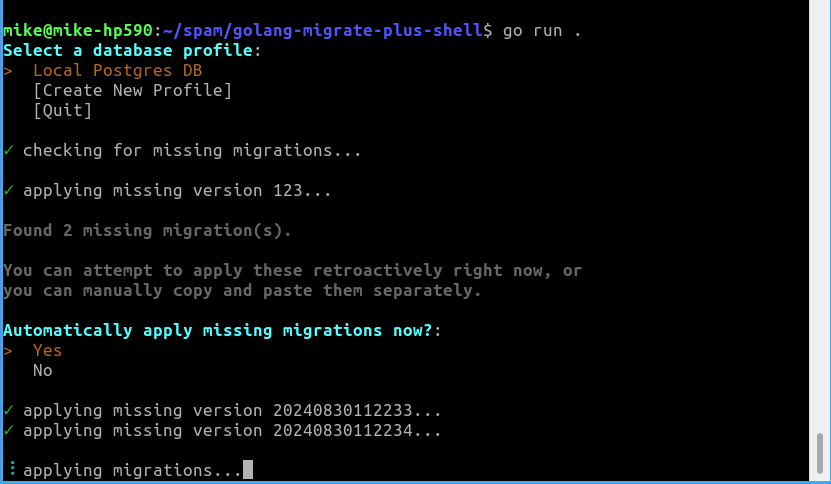
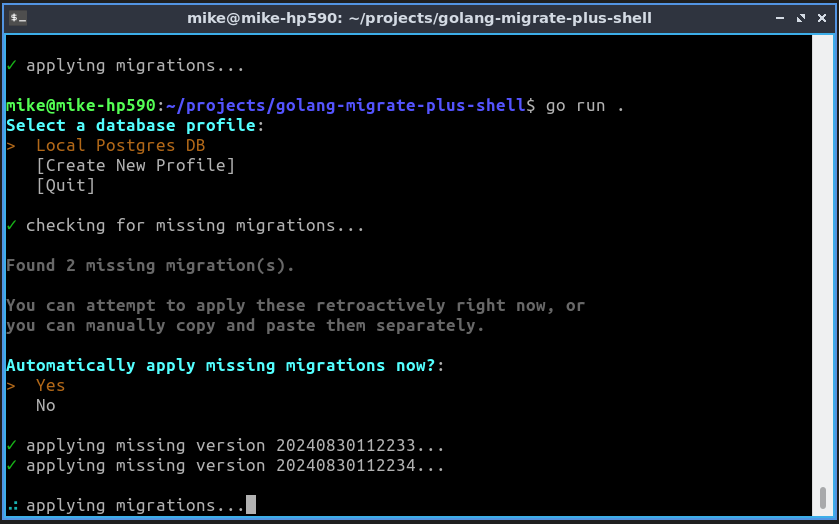
cleanup

Changed region(s): [[0.0, 0.0, 1.0, 1.0]]

diff --git a/main.go b/main.go
@@ -243,7 +243,12 @@ func listProfiles(t *term.Terminal, chInterrupt chan<- os.Signal) (*Profile, err
 				panic(err)
 			}
 		}
-		return nil, io.EOF
+
+		if profile == nil {
+			return nil, io.EOF
+		} else {
+			return profile, nil
+		}
 	} else if choice == "-2" {
 		chInterrupt <- os.Kill
 		return nil, io.EOF
@@ -301,6 +306,8 @@ func createProfile(t *term.Terminal, chInterrupt chan<- os.Signal) *Profile {
 	newline()
 	print("Enter the database connection string that will be sent to the migrate tool.")
 	newline()
+	print("Profiles are saved in the profiles.json folder alongside the compiled app.  You may prefer to enter throwaway values on the CLI and edit the json file directly afterward.")
+	newline()
 	print("Example: postgres://postgres:postgres@localhost:5433/alpha?sslmode=disable&x-migrations-history-enabled=true")
 	newline()
 
@@ -313,6 +320,7 @@ func createProfile(t *term.Terminal, chInterrupt chan<- os.Signal) *Profile {
 		} else if strings.TrimSpace(connStr) == "" {
 			newline()
 			print("Connection String is required.")
+			newline()
 		} else {
 			profile.ConnectionString = connStr
 			break
@@ -437,10 +445,6 @@ func doStuff(t *term.Terminal, chInterrupt chan<- os.Signal) error {
 
 	newline()
 
-	chStopApplyFake := drawSpinner(fmt.Sprintf("applying missing version %d...", 123))
-	time.Sleep(500 * time.Millisecond)
-	chStopApplyFake <- true
-
 	xx := 5
 	if xx > 0 {
 		missingVersions = []int{20240830112233, 20240830112234}
@@ -450,8 +454,6 @@ func doStuff(t *term.Terminal, chInterrupt chan<- os.Signal) error {
 		printSuccess("No missing versions found")
 		newline()
 	} else {
-		newline()
-
 		print(fmt.Sprintf("Found %d missing migration(s).", len(missingVersions)))
 		newline()
 		print("You can attempt to apply these retroactively right now, or you can manually copy and paste them separately.")
@@ -481,13 +483,14 @@ func doStuff(t *term.Terminal, chInterrupt chan<- os.Signal) error {
 				}
 
 				applyMissingErr := mp.Steps(1)
-				// time.Sleep(2 * time.Second)
 
 				err = mp.Force(int(curVersion))
 				if err != nil {
 					return err
 				}
 
+				// This is just here to allow user to admire
+				// the "spinner" effect during super-fast migrations
 				time.Sleep(250 * time.Millisecond)
 
 				chStopApplyMissingVersion <- (applyMissingErr == nil)
